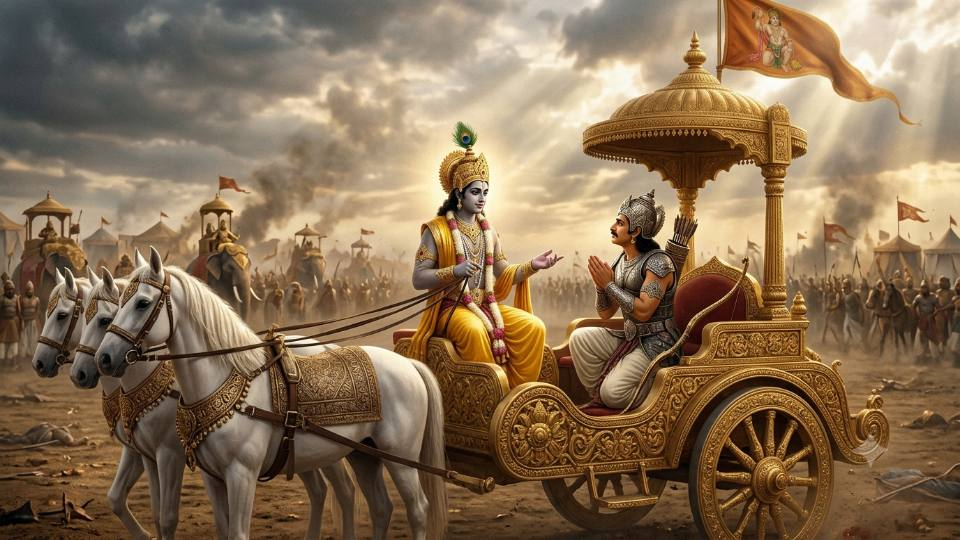
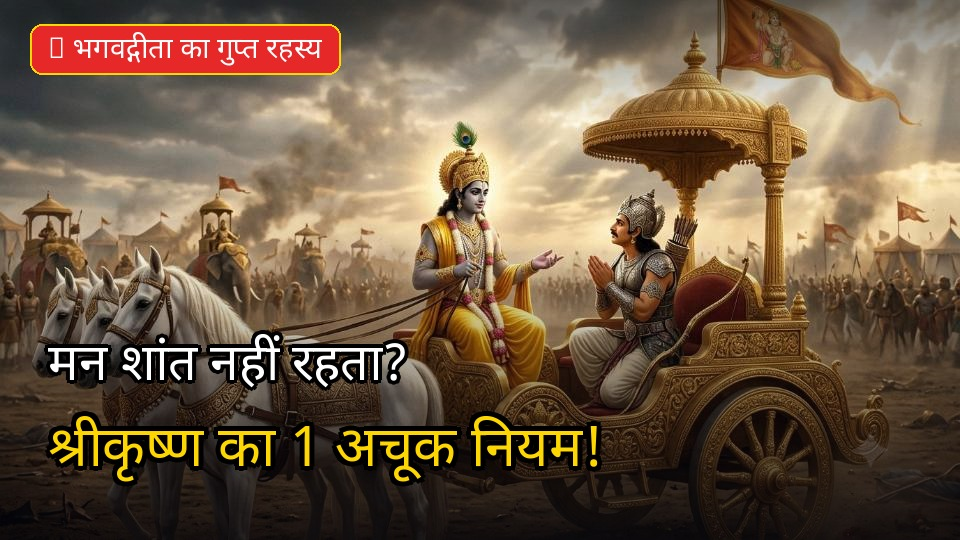
feat(thumbnail): add viral high-CTR typography overlay to hero thumbnail

diff --git a/website/public/articles/gita-overthinking-man-ki-shanti-upay.html b/website/public/articles/gita-overthinking-man-ki-shanti-upay.html
@@ -15,7 +15,7 @@
   <meta property="og:url" content="https://krishnavibez.in/articles/gita-overthinking-man-ki-shanti-upay">
   <meta property="og:title" content="कलिकाल में मन की अशांति और ओवरथिंकिंग का स्थायी इलाज: भगवद गीता का गुप्त सूत्र">
   <meta property="og:description" content="कलिकाल में ओवरथिंकिंग और मन की अशांति से मुक्ति कैसे पाएं? जानिए भगवद्गीता अध्याय 6 के अनुसार अभ्यास और वैराग्य के वे 5 अचूक आध्यात्मिक सूत्र जो मन को शांत करते हैं।">
-  <meta property="og:image" content="https://krishnavibez.in/images/articles/gita-upay-krishna-arjuna-hero.jpg">
+  <meta property="og:image" content="https://krishnavibez.in/images/articles/gita-upay-krishna-arjuna-viral-hero.jpg">
   <meta property="og:image:width" content="1200">
   <meta property="og:image:height" content="675">
   <meta property="og:locale" content="hi_IN">
@@ -24,7 +24,7 @@
   <meta name="twitter:card" content="summary_large_image">
   <meta name="twitter:title" content="कलिकाल में मन की अशांति और ओवरथिंकिंग का स्थायी इलाज: भगवद गीता का गुप्त सूत्र">
   <meta name="twitter:description" content="कलिकाल में ओवरथिंकिंग और मन की अशांति से मुक्ति कैसे पाएं? जानिए भगवद्गीता अध्याय 6 के अनुसार अभ्यास और वैराग्य के सूत्र।">
-  <meta name="twitter:image" content="https://krishnavibez.in/images/articles/gita-upay-krishna-arjuna-hero.jpg">
+  <meta name="twitter:image" content="https://krishnavibez.in/images/articles/gita-upay-krishna-arjuna-viral-hero.jpg">
 
   <link rel="icon" href="/favicon.ico" sizes="any">
   <link rel="icon" type="image/png" sizes="192x192" href="/favicon-192.png">
@@ -350,7 +350,7 @@
     </header>
 
     <div class="article-featured-img-wrap" style="position: relative; width: 100%; max-height: 520px; border-radius: 14px; overflow: hidden; margin-bottom: 32px; box-shadow: 0 10px 30px rgba(0,0,0,0.5);">
-      <img src="/images/articles/gita-upay-krishna-arjuna-hero.jpg" alt="कलिकाल में मन की अशांति और ओवरथिंकिंग का स्थायी इलाज: भगवद गीता का गुप्त सूत्र: 4K अलौकिक वॉलपेपर - Krishna Vibez" class="article-featured-img" style="width: 100%; height: auto; max-height: 520px; object-fit: cover; display: block;" width="1200" height="675">
+      <img src="/images/articles/gita-upay-krishna-arjuna-viral-hero.jpg" alt="कलिकाल में मन की अशांति और ओवरथिंकिंग का स्थायी इलाज: भगवद गीता का गुप्त सूत्र: 4K अलौकिक वॉलपेपर - Krishna Vibez" class="article-featured-img" style="width: 100%; height: auto; max-height: 520px; object-fit: cover; display: block;" width="1200" height="675">
     </div>
 
     <article class="article-body-content">

diff --git a/website/public/articles.html b/website/public/articles.html
@@ -319,7 +319,7 @@
       </div>
       <div style="width: 100%; border-radius: 10px; overflow: hidden; margin: 12px 0 16px;">
         <a href="/articles/gita-overthinking-man-ki-shanti-upay.html">
-          <img src="/images/articles/gita-upay-krishna-arjuna-hero.jpg" alt="कलिकाल में मन की अशांति और ओवरथिंकिंग का स्थायी इलाज: भगवद गीता का गुप्त सूत्र - Krishna Vibez" style="width: 100%; height: auto; max-height: 220px; object-fit: cover; display: block; border-radius: 8px;" loading="lazy" width="600" height="338">
+          <img src="/images/articles/gita-upay-krishna-arjuna-viral-hero.jpg" alt="कलिकाल में मन की अशांति और ओवरथिंकिंग का स्थायी इलाज: भगवद गीता का गुप्त सूत्र - Krishna Vibez" style="width: 100%; height: auto; max-height: 220px; object-fit: cover; display: block; border-radius: 8px;" loading="lazy" width="600" height="338">
         </a>
       </div>
       <h2 class="article-title"><a href="/articles/gita-overthinking-man-ki-shanti-upay.html" style="color: inherit; text-decoration: none;">कलिकाल में मन की अशांति और ओवरथिंकिंग का स्थायी इलाज: भगवद गीता का गुप्त सूत्र</a></h2>

diff --git a/create_viral_thumbnail.py b/create_viral_thumbnail.py
@@ -1,0 +1,93 @@
+#!/usr/bin/env python3
+# -*- coding: utf-8 -*-
+import sys
+import os
+from PIL import Image, ImageDraw, ImageFont, ImageFilter
+
+def create_high_ctr_thumbnail(image_path, badge_text, headline_line1, headline_line2, output_path):
+    """
+    Overlays viral, high-CTR YouTube/Google Discover style Hindi typography
+    onto the 16:9 Google Flow thumbnail.
+    """
+    im = Image.open(image_path).convert("RGBA")
+    w, h = im.size
+    
+    # Create dark gradient overlay for top and bottom readability
+    overlay = Image.new("RGBA", (w, h), (0, 0, 0, 0))
+    draw = ImageDraw.Draw(overlay)
+    
+    # Bottom vignette/gradient
+    for y in range(int(h * 0.45), h):
+        alpha = int(210 * ((y - h * 0.45) / (h * 0.55)))
+        draw.line([(0, y), (w, y)], fill=(5, 5, 10, alpha))
+        
+    # Top badge shadow
+    for y in range(0, int(h * 0.22)):
+        alpha = int(140 * (1 - (y / (h * 0.22))))
+        draw.line([(0, y), (w, y)], fill=(0, 0, 0, alpha))
+        
+    im = Image.alpha_composite(im, overlay)
+    draw = ImageDraw.Draw(im)
+    
+    # Fonts
+    # Hindi font candidates
+    hindi_font_paths = [
+        "/system/fonts/NotoSansDevanagari-VF.ttf",
+        "/system/fonts/MiSansDevanagariVF.ttf",
+        "/data/user/0/ai.antigem/files/home/extensions/.antigem-backup/2d-video-editing-studio/fonts/hindi/Baloo2-Bold.ttf",
+        "/system/fonts/NotoSansDevanagariUI-VF.ttf"
+    ]
+    font_path = None
+    for p in hindi_font_paths:
+        if os.path.exists(p):
+            font_path = p
+            break
+            
+    badge_font = ImageFont.truetype(font_path, int(h * 0.055))
+    headline_font1 = ImageFont.truetype(font_path, int(h * 0.095))
+    headline_font2 = ImageFont.truetype(font_path, int(h * 0.105))
+    
+    # 1. Draw Top Badge (e.g. "🔥 भगवद्गीता का गुप्त रहस्य")
+    badge_x = int(w * 0.05)
+    badge_y = int(h * 0.06)
+    
+    # Badge background pill
+    bbox = draw.textbbox((badge_x, badge_y), badge_text, font=badge_font)
+    pad_x, pad_y = 18, 8
+    badge_rect = [bbox[0] - pad_x, bbox[1] - pad_y, bbox[2] + pad_x, bbox[3] + pad_y]
+    draw.rounded_rectangle(badge_rect, radius=12, fill=(230, 40, 40, 240), outline=(255, 215, 0, 255), width=2)
+    draw.text((badge_x, badge_y), badge_text, font=badge_font, fill=(255, 255, 255, 255))
+    
+    # 2. Draw Headline Line 1 (e.g. "मन शांत नहीं रहता?")
+    # Shadow / Outline for 3D Pop
+    y1 = int(h * 0.62)
+    x1 = int(w * 0.05)
+    
+    for ox, oy in [(-3,-3), (3,-3), (-3,3), (3,3), (0,4), (4,0), (-4,0), (0,-4)]:
+        draw.text((x1 + ox, y1 + oy), headline_line1, font=headline_font1, fill=(0, 0, 0, 255))
+    draw.text((x1, y1), headline_line1, font=headline_font1, fill=(255, 255, 255, 255)) # Pure crisp white
+    
+    # 3. Draw Headline Line 2 (e.g. "श्रीकृष्ण का 1 अचूक नियम!")
+    y2 = int(h * 0.77)
+    x2 = int(w * 0.05)
+    
+    # Golden glow / black stroke
+    for ox, oy in [(-4,-4), (4,-4), (-4,4), (4,4), (0,5), (5,0), (-5,0), (0,-5)]:
+        draw.text((x2 + ox, y2 + oy), headline_line2, font=headline_font2, fill=(0, 0, 0, 255))
+    draw.text((x2, y2), headline_line2, font=headline_font2, fill=(255, 215, 0, 255)) # Glowing Golden Amber
+    
+    # Save back to RGB JPEG
+    im = im.convert("RGB")
+    im.save(output_path, "JPEG", quality=92)
+    print(f"Viral CTR Thumbnail created at {output_path}")
+
+if __name__ == "__main__":
+    src = "/data/user/0/ai.antigem/files/home/projects/Auto-Insta-Krishna/website/public/images/articles/gita-upay-krishna-arjuna-hero.jpg"
+    out = "/data/user/0/ai.antigem/files/home/projects/Auto-Insta-Krishna/website/public/images/articles/gita-upay-krishna-arjuna-hero.jpg"
+    create_high_ctr_thumbnail(
+        src,
+        "🔥 भगवद्गीता का गुप्त रहस्य",
+        "मन शांत नहीं रहता?",
+        "श्रीकृष्ण का 1 अचूक नियम!",
+        out
+    )
